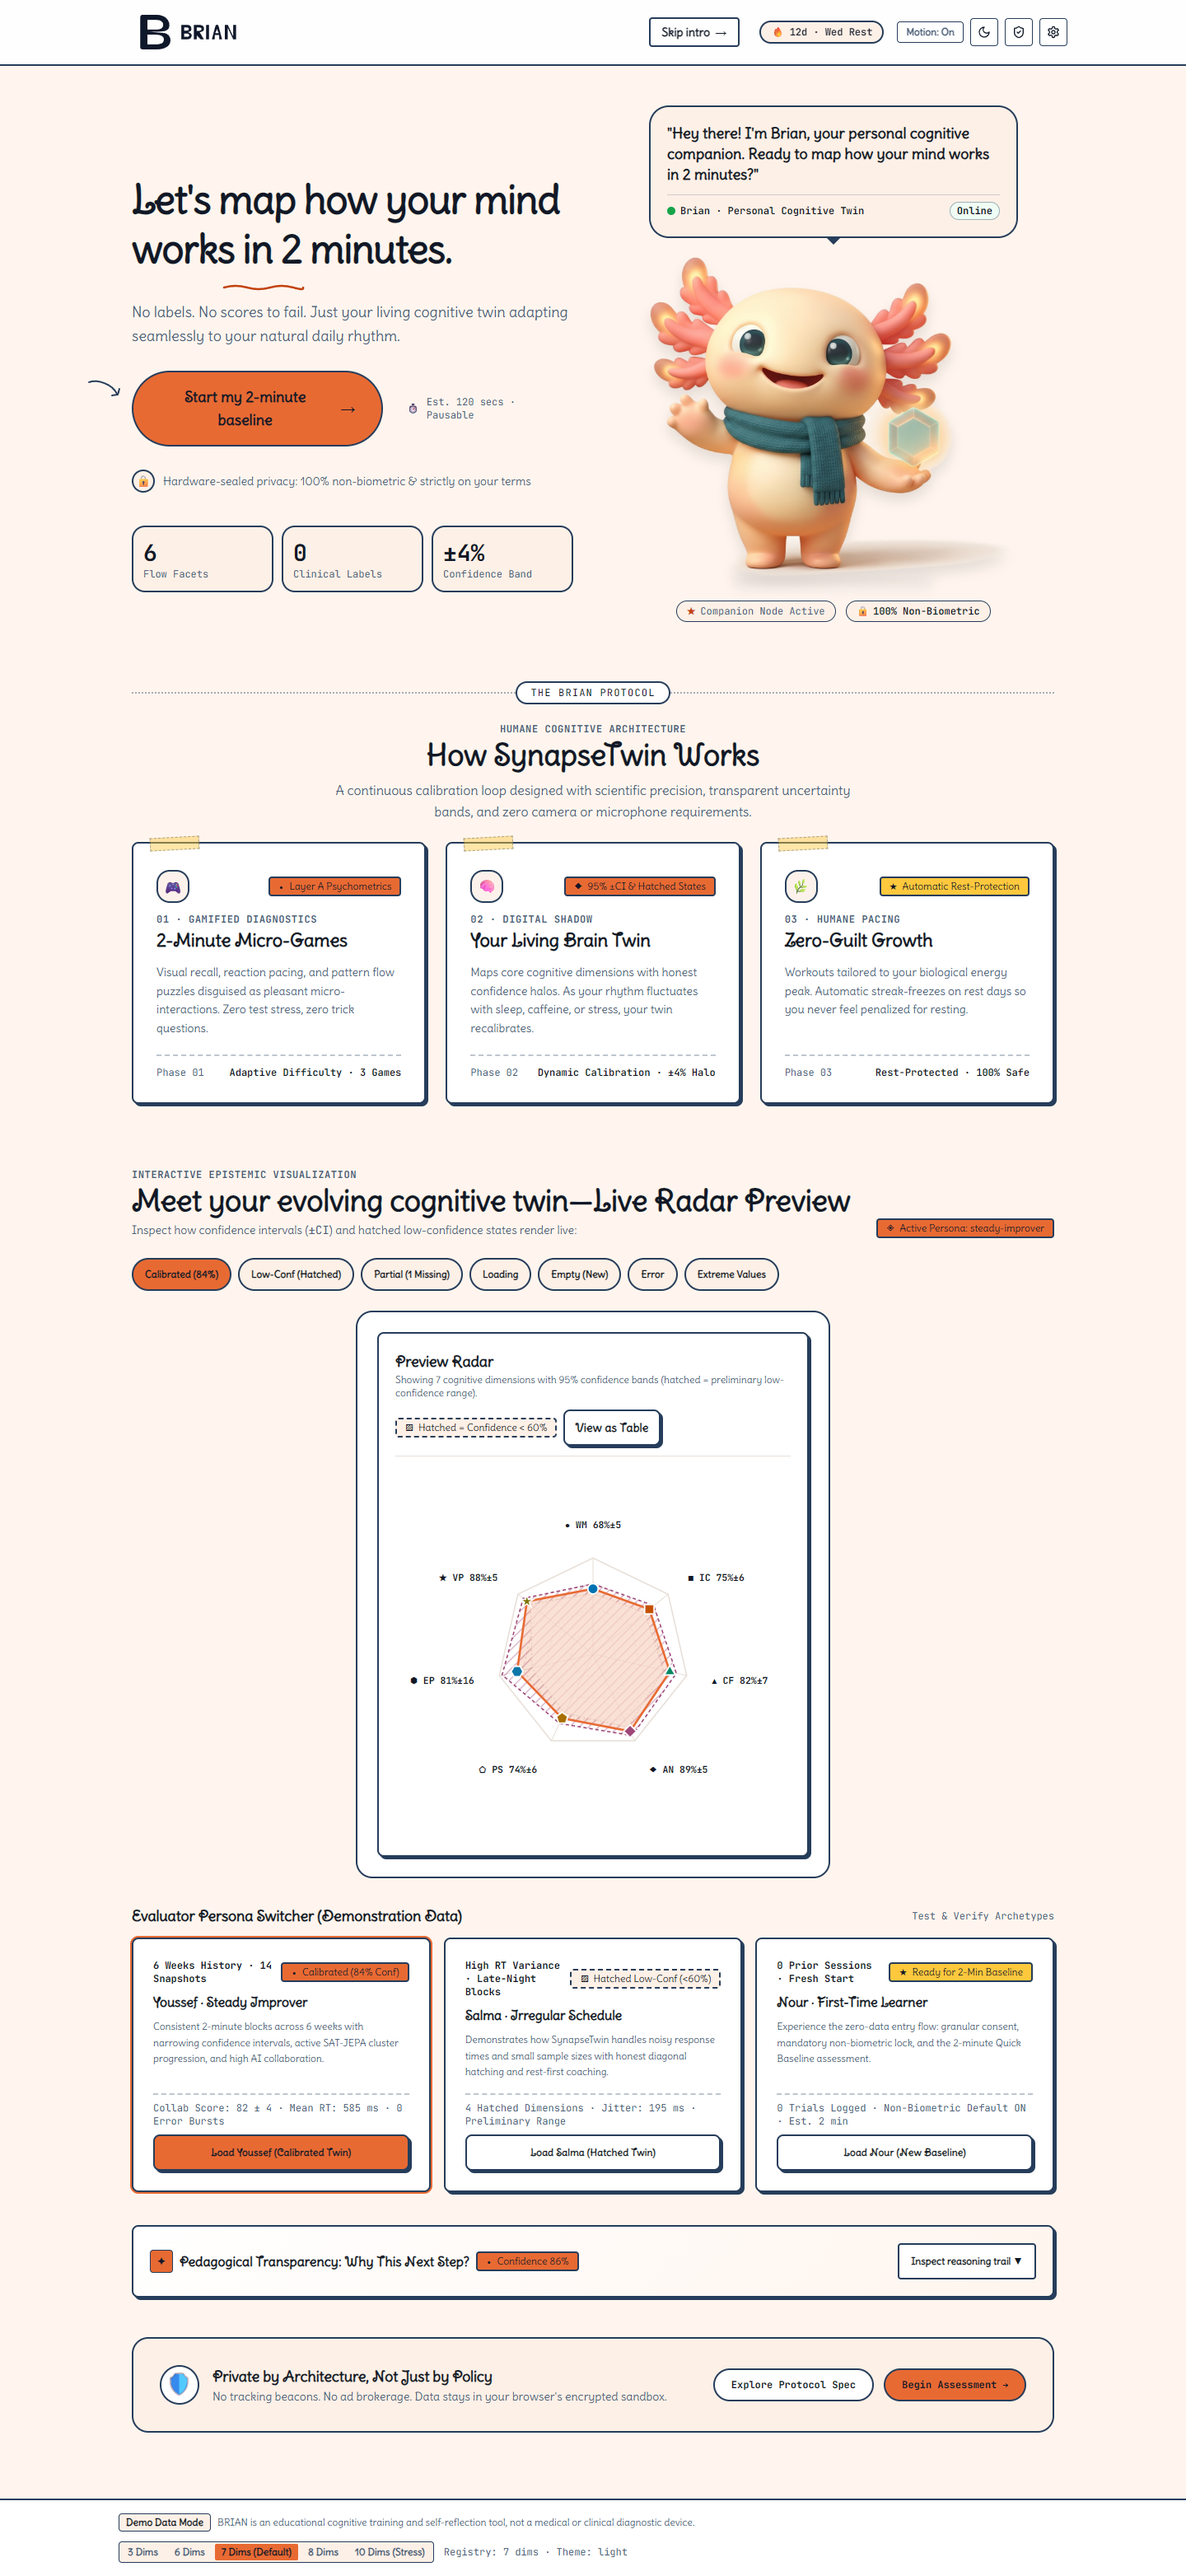
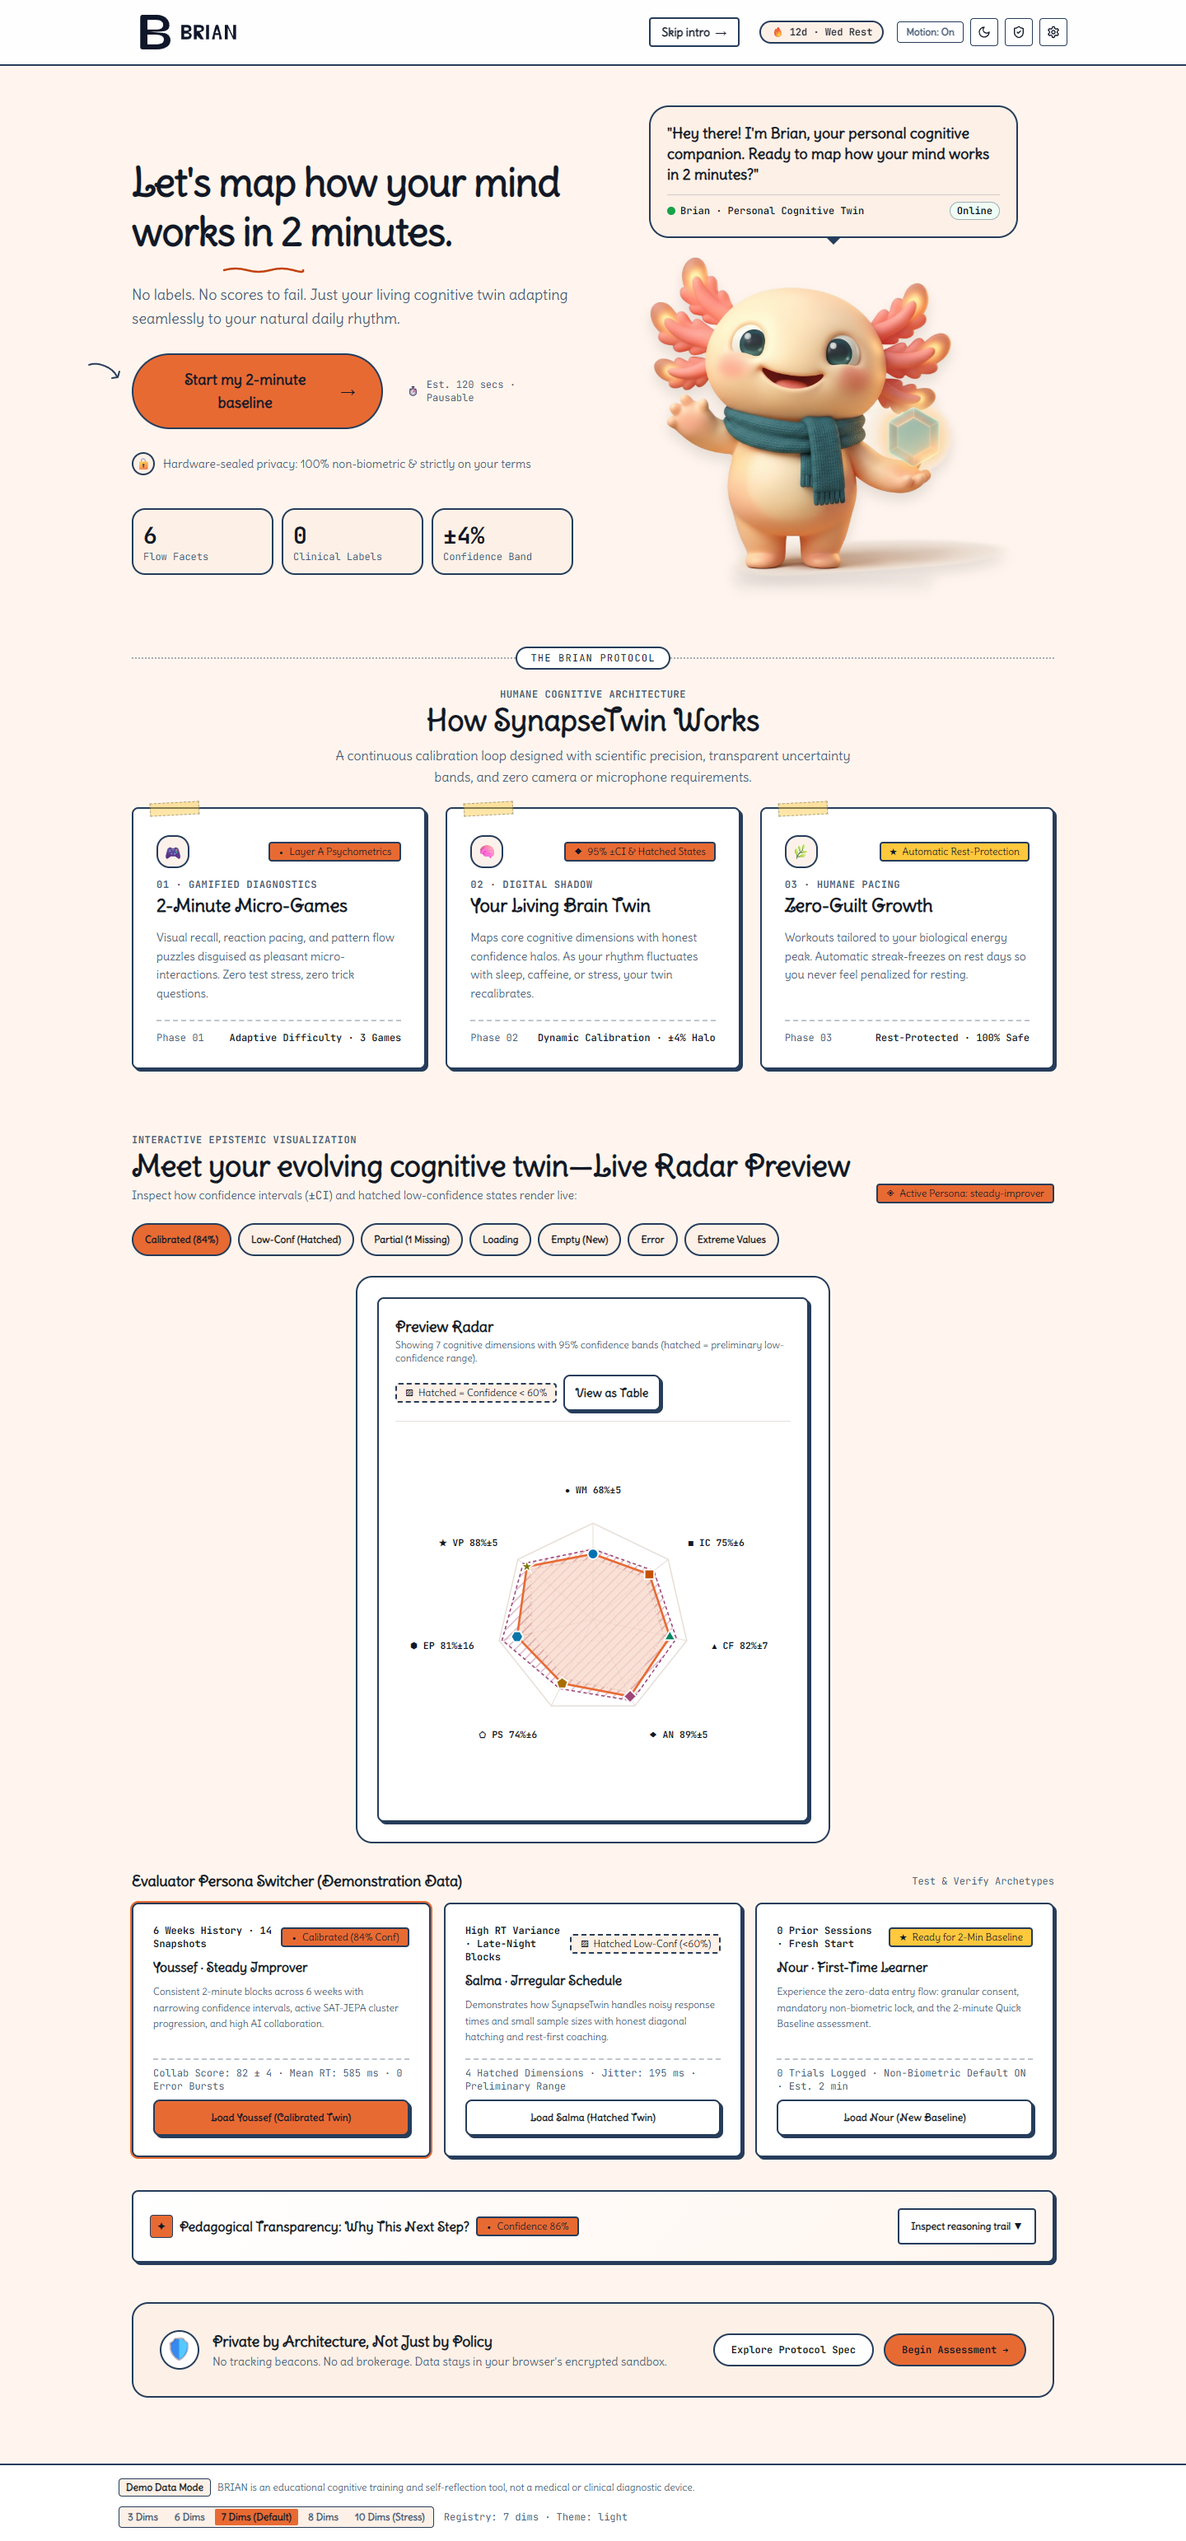
feat(welcome): remove mascot metadata badge pills

diff --git a/frontend/src/pages/WelcomePage.tsx b/frontend/src/pages/WelcomePage.tsx
@@ -306,18 +306,6 @@ export default function WelcomePage() {
                 className="w-48 sm:w-60 h-3 bg-ink/10 rounded-pill blur-sm -mt-2 pointer-events-none select-none"
                 aria-hidden="true"
               />
-
-              {/* Minimalist companion metadata label */}
-              <div className="mt-4 flex items-center justify-center gap-3 font-mono text-xs text-ink-muted">
-                <span className="inline-flex items-center gap-1.5 px-3 py-1 rounded-pill bg-surface-raised border border-border-strong shadow-doodle-sm">
-                  <span className="text-brand font-bold text-xs">★</span>
-                  <span>Companion Node Active</span>
-                </span>
-                <span className="inline-flex items-center gap-1 px-3 py-1 rounded-pill bg-surface-raised border border-border-strong shadow-doodle-sm text-ink font-semibold">
-                  <span>🔒</span>
-                  <span>100% Non-Biometric</span>
-                </span>
-              </div>
             </div>
           </div>
         </div>
